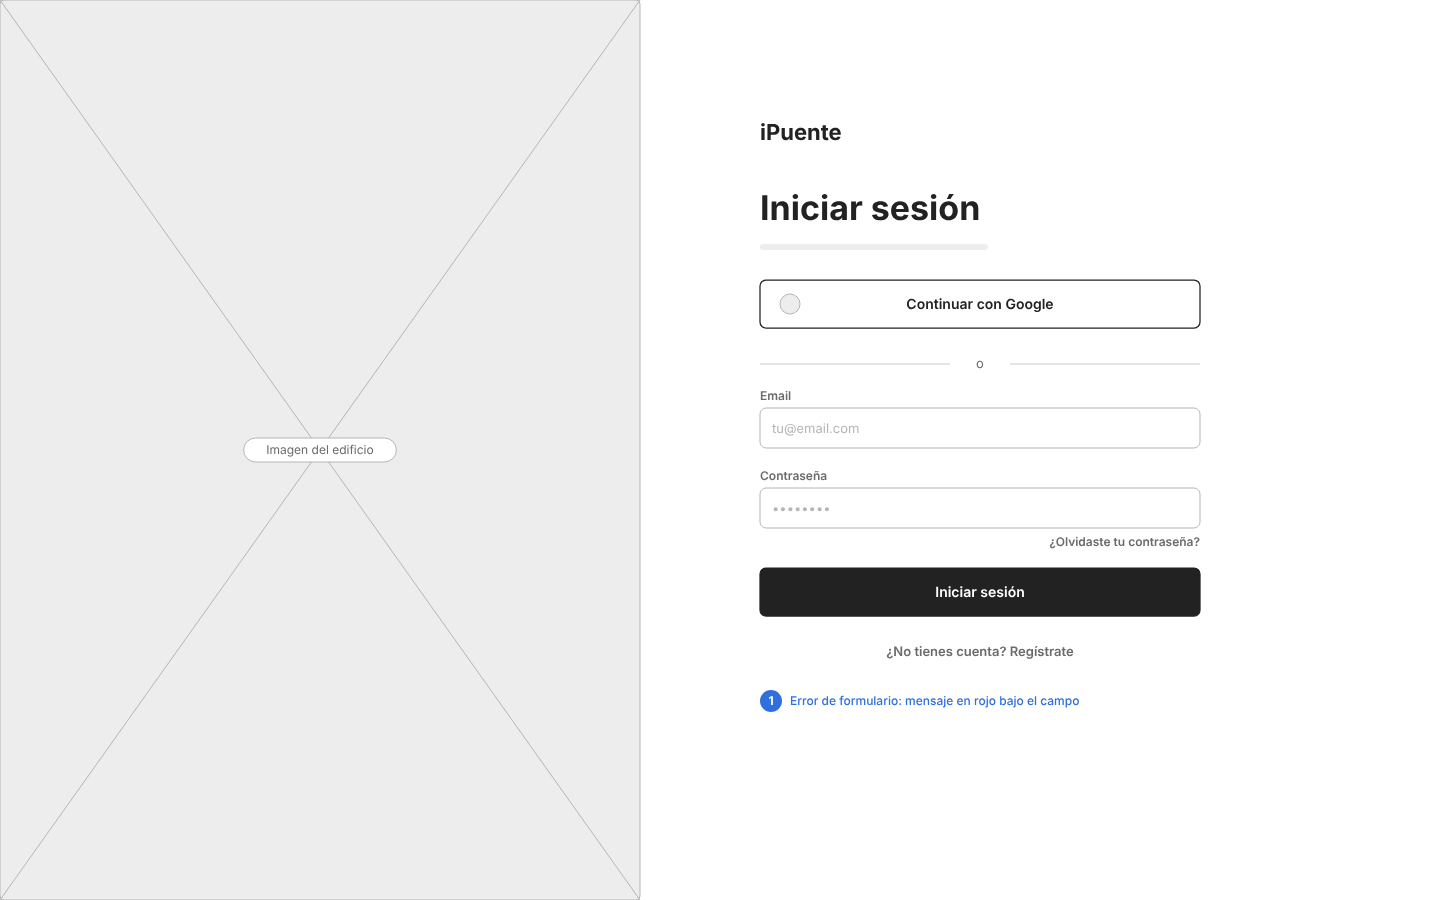
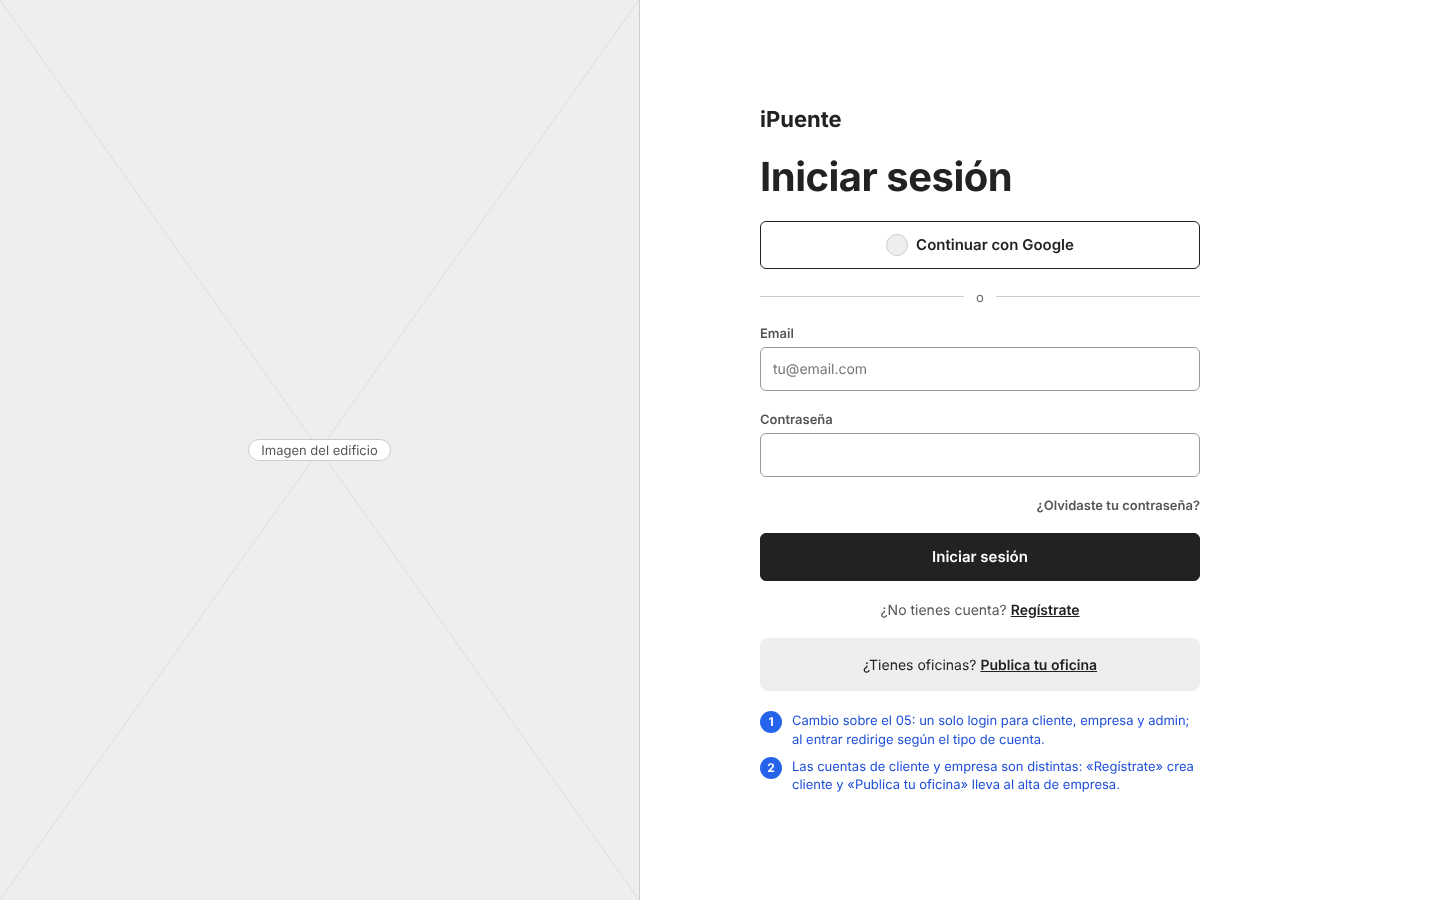
DIS006: añade wireframes nuevos y el plan de componentes del front
- Integra 33 wireframes nuevos en docs/images/wireframes con la numeración existente.
- Sustituye 05-login, 10-empresa-alta y 20-admin-pagos por su versión revisada
  (los originales pasan a _to_delete/wireframes).
- Añade a AGENTS.md los componentes y páginas nuevos de los wireframes.
- Crea docs/plan-front.md con las épicas e issues del front.

diff --git a/AGENTS.md b/AGENTS.md
@@ -62,11 +62,32 @@ Todo el código de React. `config/` conecta con Firebase; `App.jsx` define las U
 | `client/src/components/ui/Input/Input.jsx` + `.module.css` | Campo de formulario con etiqueta, ayuda y mensaje de error. |
 | `client/src/components/ui/Modal/Modal.jsx` + `.module.css` | Ventana modal accesible (cierre con Escape y foco atrapado). |
 | `client/src/components/ui/Spinner/Spinner.jsx` + `.module.css` | Indicador de carga. |
-| `client/src/components/ui/StatusBadge/StatusBadge.jsx` + `.module.css` | Etiqueta de estado: de una sala (libre, ocupada, no reservable), de una reserva (`PENDING_PAYMENT`, `CONFIRMED`…) o de una empresa (verificada o pendiente). |
+| `client/src/components/ui/StatusBadge/StatusBadge.jsx` + `.module.css` | Etiqueta de estado: de una sala (libre, ocupada, no reservable; en el panel de empresa: publicada, sin precio, oculta), de una reserva (`PENDING_PAYMENT`, `CONFIRMED`…), de un pago o de una empresa (verificada, pendiente, rechazada o suspendida). |
+| `client/src/components/ui/Select/Select.jsx` + `.module.css` | Desplegable con etiqueta, ayuda y mensaje de error (buscador, filtros, cambio de rol). |
+| `client/src/components/ui/Textarea/Textarea.jsx` + `.module.css` | Texto largo con etiqueta y error (motivo de rechazo, suspensión, cancelación o bloqueo). |
+| `client/src/components/ui/Checkbox/Checkbox.jsx` + `.module.css` | Casilla con etiqueta (equipamiento, aceptar condiciones). |
+| `client/src/components/ui/Chip/Chip.jsx` + `.module.css` | Píldora pequeña: filtro seleccionable por tipo de sala o etiqueta informativa (`Black Room I · 25 €/h`). |
+| `client/src/components/ui/Avatar/Avatar.jsx` + `.module.css` | Círculo con la foto o las iniciales del usuario. |
+| `client/src/components/ui/Alert/Alert.jsx` + `.module.css` | Mensaje de error, aviso o éxito dentro de una pantalla. |
+| `client/src/components/ui/EmptyState/EmptyState.jsx` + `.module.css` | Estado vacío con título, texto y acciones (sin resultados, sin edificios, sin reservas). |
+| `client/src/components/ui/StatCard/StatCard.jsx` + `.module.css` | Cifra destacada con título para los resúmenes de empresa y admin. |
+| `client/src/components/ui/ConfirmModal/ConfirmModal.jsx` + `.module.css` | Modal de confirmación sobre `Modal`: título, texto, motivo opcional y acción (cancelar reserva, rechazar o suspender empresa, reembolsar, eliminar sala). |
+| `client/src/components/ui/DataTable/DataTable.jsx` + `.module.css` | Tabla de los paneles: columnas, acciones por fila y estado vacío; en móvil pasa a tarjetas. |
+| `client/src/components/ui/FilterBar/FilterBar.jsx` + `.module.css` | Fila de filtros (edificio, planta, estado, fechas) encima de las tablas. |
+| `client/src/components/ui/FileDropzone/FileDropzone.jsx` + `.module.css` | Zona para arrastrar o seleccionar archivos; la usan `PlanUploader` y las fotos de sala. |
+| `client/src/components/ui/CookieBanner/CookieBanner.jsx` + `.module.css` | Aviso de cookies que recuerda la elección del usuario. |
+| `client/src/components/ui/ErrorState/ErrorState.jsx` + `.module.css` | Error del servidor o sin conexión, con botón de reintentar. |
 | `client/src/components/layout/Header/Header.jsx` + `.module.css` | Cabecera: logo, navegación, acceso y menú según el rol. |
+| `client/src/components/layout/UserMenu/UserMenu.jsx` + `.module.css` | Menú desplegable del usuario en escritorio (reservas, panel según rol, cerrar sesión). |
+| `client/src/components/layout/MobileMenu/MobileMenu.jsx` + `.module.css` | Menú de navegación a pantalla completa en móvil. |
 | `client/src/components/layout/Footer/Footer.jsx` + `.module.css` | Pie de página. |
 | `client/src/components/layout/DashboardLayout/DashboardLayout.jsx` + `.module.css` | Plantilla con menú lateral para los paneles de empresa y admin. |
+| `client/src/components/search/SearchBar/SearchBar.jsx` + `.module.css` | Buscador de ciudad, fecha y personas (landing y resultados). |
+| `client/src/components/search/CategoryFilters/CategoryFilters.jsx` + `.module.css` | Filtros por tipo de sala (reuniones, eventos, formación, boxes privados). |
+| `client/src/components/search/BuildingCard/BuildingCard.jsx` + `.module.css` | Tarjeta de edificio en los resultados: foto, dirección, salas libres y precio desde. |
+| `client/src/components/search/SearchMap/SearchMap.jsx` + `.module.css` | Extra: mapa de resultados con un pin por edificio, resaltado al pasar por su tarjeta. |
 | `client/src/components/building/BuildingHero/BuildingHero.jsx` + `.module.css` | Imagen del edificio con una banda clicable por planta (hover ilumina la planta y muestra las salas libres). |
+| `client/src/components/building/FloorSelector/FloorSelector.jsx` + `.module.css` | Lista de plantas del edificio con sus salas libres, para elegir planta. |
 | `client/src/components/building/Building3D/Building3D.jsx` + `.module.css` | Extra: edificio 3D generado a partir de las plantas guardadas (Three.js). |
 | `client/src/components/building/NearbyMap/NearbyMap.jsx` + `.module.css` | Sección «Qué hay cerca»: mapa ilustrado con puntos de interés (estación de tren, metro, parking…) y tiempos. |
 | `client/src/components/floor-plan/FloorPlan/FloorPlan.jsx` + `.module.css` | Plano SVG de una planta para clientes, generado desde el `mapData` de la planta y coloreado por el estado de cada sala. |
@@ -78,31 +99,55 @@ Todo el código de React. `config/` conecta con Firebase; `App.jsx` define las U
 | `client/src/components/map-editor/RoomPropertiesPanel/RoomPropertiesPanel.jsx` + `.module.css` | Panel lateral con los datos de la sala seleccionada (código, nombre, tipo). |
 | `client/src/components/map-editor/PlanUploader/PlanUploader.jsx` + `.module.css` | Subida de la imagen del plano (arrastrar o seleccionar). |
 | `client/src/components/map-editor/DetectionOverlay/DetectionOverlay.jsx` + `.module.css` | Estado «Analizando tu plano…» con animación de escaneo mientras responde la IA. |
+| `client/src/components/map-editor/EditorStartChoice/EditorStartChoice.jsx` + `.module.css` | Elección inicial del editor: detectar salas con IA o dibujarlas a mano. |
+| `client/src/components/map-editor/DetectionError/DetectionError.jsx` + `.module.css` | Aviso de fallo en la detección con IA, con opción de reintentar o dibujar a mano. |
+| `client/src/components/map-editor/UnsavedChangesModal/UnsavedChangesModal.jsx` + `.module.css` | Aviso al salir del editor con cambios sin guardar. |
+| `client/src/components/map-editor/PublishValidationModal/PublishValidationModal.jsx` + `.module.css` | Comprobaciones antes de publicar una planta (salas sin nombre, sin precio…). |
+| `client/src/components/company/BuildingFormModal/BuildingFormModal.jsx` + `.module.css` | Formulario para crear o editar un edificio. |
+| `client/src/components/company/BuildingMenu/BuildingMenu.jsx` + `.module.css` | Menú de acciones de un edificio: editar, añadir planta y eliminar. |
+| `client/src/components/company/FloorList/FloorList.jsx` + `.module.css` | Plantas de un edificio con su estado y acceso al editor de mapas. |
+| `client/src/components/company/RoomEditPanel/RoomEditPanel.jsx` + `.module.css` | Panel para editar los datos comerciales de una sala: precio, capacidad, equipamiento y horario. |
+| `client/src/components/company/RoomPhotosManager/RoomPhotosManager.jsx` + `.module.css` | Subida, orden y portada de las fotos de una sala. |
+| `client/src/components/company/BlockHoursModal/BlockHoursModal.jsx` + `.module.css` | Modal para bloquear horas de una sala (fecha, franja y motivo). |
+| `client/src/components/admin/RoleSelect/RoleSelect.jsx` + `.module.css` | Selector para cambiar el rol de un usuario. |
 | `client/src/components/room/RoomCard/RoomCard.jsx` + `.module.css` | Tarjeta resumen de una sala (foto, nombre, capacidad, precio). |
 | `client/src/components/room/RoomSidePanel/RoomSidePanel.jsx` + `.module.css` | Panel lateral que se abre al pulsar una sala del plano. |
+| `client/src/components/room/RoomGallery/RoomGallery.jsx` + `.module.css` | Galería de fotos de la sala. |
+| `client/src/components/room/AmenitiesList/AmenitiesList.jsx` + `.module.css` | Equipamiento de la sala con icono y texto. |
 | `client/src/components/room/AvailabilityCalendar/AvailabilityCalendar.jsx` + `.module.css` | Huecos libres de una sala por día. |
 | `client/src/components/booking/BookingForm/BookingForm.jsx` + `.module.css` | Formulario de reserva: fecha y franja horaria (`startDate` y `endDate`). |
 | `client/src/components/booking/BookingSummary/BookingSummary.jsx` + `.module.css` | Resumen de la reserva con el precio que devuelve la API. |
+| `client/src/components/booking/BookingCard/BookingCard.jsx` + `.module.css` | Fila de una reserva en «Mis reservas»: sala, fecha, importe y estado. |
+| `client/src/components/booking/BookingDetail/BookingDetail.jsx` + `.module.css` | Detalle de una reserva, común a cliente, empresa y admin; cada rol ve sus acciones. |
 | `client/src/components/layout/Layout/Layout.jsx` + `.module.css` | Plantilla común de las páginas públicas: cabecera, contenido (`<Outlet />`) y pie. |
 | `client/src/pages/Landing/Landing.jsx` + `.module.css` | Home: hero con el edificio por plantas, buscador, salas destacadas, cómo funciona y llamada a empresas. |
+| `client/src/pages/Search/Search.jsx` + `.module.css` | Resultados de búsqueda: edificios con salas libres según ciudad, fecha y personas, con filtros y estado sin resultados. |
 | `client/src/pages/Building/Building.jsx` + `.module.css` | Página de un edificio: plantas, salas libres y «Qué hay cerca». |
 | `client/src/pages/Floor/Floor.jsx` + `.module.css` | Página de una planta: plano, selector de fecha y panel de sala. |
 | `client/src/pages/Room/Room.jsx` + `.module.css` | Ficha de sala con galería, equipamiento, disponibilidad y reserva. |
 | `client/src/pages/Login/Login.jsx` + `.module.css` | Inicio de sesión con email o Google. |
 | `client/src/pages/Register/Register.jsx` + `.module.css` | Registro de cliente. |
+| `client/src/pages/ForgotPassword/ForgotPassword.jsx` + `.module.css` | Recuperar contraseña: pide el email y envía el enlace. |
+| `client/src/pages/ResetPassword/ResetPassword.jsx` + `.module.css` | Recuperar contraseña: formulario de nueva contraseña desde el enlace. |
 | `client/src/pages/MyBookings/MyBookings.jsx` + `.module.css` | Reservas del cliente: próximas y pasadas, con cancelación. |
-| `client/src/pages/PaymentResult/PaymentResult.jsx` + `.module.css` | Vuelta desde Stripe: reserva confirmada o pago cancelado. |
+| `client/src/pages/BookingDetailPage/BookingDetailPage.jsx` + `.module.css` | Detalle de una reserva del cliente, con cancelación. |
+| `client/src/pages/PaymentResult/PaymentResult.jsx` + `.module.css` | Vuelta desde Stripe: reserva confirmada, pago cancelado o reserva expirada. |
 | `client/src/pages/NotFound/NotFound.jsx` + `.module.css` | Página 404. |
-| `client/src/pages/company/CompanyDashboard/CompanyDashboard.jsx` + `.module.css` | Resumen del panel de empresa. |
+| `client/src/pages/company/CompanyDashboard/CompanyDashboard.jsx` + `.module.css` | Resumen del panel de empresa, con estado vacío en el primer acceso (sin edificios). |
 | `client/src/pages/company/CompanyRegister/CompanyRegister.jsx` + `.module.css` | Solicitud de alta como empresa (queda pendiente de aprobación). |
+| `client/src/pages/company/CompanyRequestStatus/CompanyRequestStatus.jsx` + `.module.css` | Estado de la solicitud de alta: en revisión o rechazada con su motivo. |
 | `client/src/pages/company/CompanyBuildings/CompanyBuildings.jsx` + `.module.css` | Edificios y plantas de la empresa. |
 | `client/src/pages/company/MapEditorPage/MapEditorPage.jsx` + `.module.css` | Página del editor de mapas de una planta: subir plano, detectar, corregir, guardar y publicar. |
-| `client/src/pages/company/CompanyRooms/CompanyRooms.jsx` + `.module.css` | Datos comerciales de las salas: precio, capacidad, equipamiento y fotos. |
+| `client/src/pages/company/CompanyRooms/CompanyRooms.jsx` + `.module.css` | Datos comerciales de las salas: precio, capacidad, equipamiento y fotos; estados y ocultar o mostrar sala. |
 | `client/src/pages/company/CompanyBookings/CompanyBookings.jsx` + `.module.css` | Reservas de las salas de la empresa y bloqueo de horas. |
+| `client/src/pages/company/CompanyBookingDetail/CompanyBookingDetail.jsx` + `.module.css` | Detalle de una reserva de la empresa, con cancelación. |
+| `client/src/pages/company/CompanySettings/CompanySettings.jsx` + `.module.css` | Ajustes de la empresa: cobros con Stripe Connect. |
 | `client/src/pages/admin/AdminDashboard/AdminDashboard.jsx` + `.module.css` | Resumen del panel de admin. |
-| `client/src/pages/admin/AdminCompanies/AdminCompanies.jsx` + `.module.css` | Aprobar o suspender empresas. |
+| `client/src/pages/admin/AdminCompanies/AdminCompanies.jsx` + `.module.css` | Aprobar, rechazar o suspender empresas. |
+| `client/src/pages/admin/AdminCompanyDetail/AdminCompanyDetail.jsx` + `.module.css` | Detalle de una empresa: datos, edificios y acciones de aprobar, rechazar o suspender. |
 | `client/src/pages/admin/AdminUsers/AdminUsers.jsx` + `.module.css` | Usuarios y cambio de rol. |
 | `client/src/pages/admin/AdminBookings/AdminBookings.jsx` + `.module.css` | Todas las reservas. |
+| `client/src/pages/admin/AdminBookingDetail/AdminBookingDetail.jsx` + `.module.css` | Detalle de cualquier reserva. |
 | `client/src/pages/admin/AdminPayments/AdminPayments.jsx` + `.module.css` | Pagos y reembolsos. |
 | `client/src/utils/formatPrice.js` | Formatea importes en euros (`25` → `25,00 €`). |
 | `client/src/utils/dates.js` | Utilidades de fechas: formato `AAAA-MM-DD`, horas y rangos para el calendario. |

diff --git a/docs/plan-front.md b/docs/plan-front.md
@@ -1,0 +1,168 @@
+# Plan de épicas e issues del front
+
+Plan para construir todos los componentes y páginas del front (`client/src/`) a partir de los wireframes de `docs/images/wireframes/`. El equipo de front somos dos personas.
+
+- **Común (`UI`):** la coge cualquiera de los dos.
+- **Cliente (`CLI`):** persona A.
+- **Empresa (`EMP`):** persona B.
+- **Admin (`ADM`):** persona A, después de cliente.
+
+Tamaños orientativos: **S** ≈ medio día · **M** ≈ 1–2 días · **L** ≈ 3 días o más.
+
+Todavía no hay endpoints en la API: todas las páginas se maquetan con **datos de prueba** (UI015) y se conectarán a la API en una épica futura (`INT`).
+
+## Épica 1 · `UI` Base común (la coge cualquiera de los dos)
+
+Bloquea al resto, así que va primero. Se reparte por orden de llegada: cada uno se asigna la siguiente libre. UI001, UI012 y UI015 son las primeras porque desbloquean todas las páginas.
+
+| Issue | Contenido | Tam. | Depende de |
+| --- | --- | --- | --- |
+| UI001 · Tokens de interfaz para los componentes | Espaciado, colores de interfaz, campos, elevación, capas y transiciones en `style.css` y `fundamentos.md` | S | Decidir color de paneles y texto pequeño |
+| UI002 · Botón y spinner | `Button` (variantes, `loading`, `disabled`), `Spinner` | S | UI001 |
+| UI003 · Campos de formulario | `Input`, `Select`, `Textarea`, `Checkbox` | M | UI001 |
+| UI004 · Etiquetas | `Chip`, `Avatar`, `StatusBadge` (todos los estados) | S | UI001 |
+| UI005 · Bloques de estado | `Alert`, `EmptyState`, `StatCard`, `ErrorState` | M | UI002 |
+| UI006 · Modales | `Modal` (Escape, foco atrapado) y `ConfirmModal` (motivo opcional) | M | UI002, UI003 |
+| UI007 · Tablas de panel | `DataTable` (acciones, vacío, tarjetas en móvil) y `FilterBar` | L | UI003, UI005 |
+| UI008 · Subida de archivos | `FileDropzone` | S | UI002 |
+| UI009 · Cabecera | `Header`, `UserMenu`, `MobileMenu` según el rol | M | UI004 |
+| UI010 · Plantilla pública | `Layout`, `Footer`, `CookieBanner` | S | UI009 |
+| UI011 · Plantilla de paneles | `DashboardLayout` con menú de empresa y de admin | M | UI009 |
+| UI012 · Rutas | Todas las rutas nuevas en `App.jsx`, con `PrivateRoute` y `RoleRoute` | S | — |
+| UI013 · Plano de planta | `FloorPlan`, `RoomShape`, `Legend` a partir de `demo-floor.json` | L | UI001 |
+| UI014 · Detalle de reserva | `BookingDetail` con acciones según el rol | M | UI004, UI006 |
+| UI015 · Datos de prueba | Datos de prueba servidos por los services (ver abajo) | M | — |
+
+### UI001 · Tokens de interfaz para los componentes
+
+La paleta, la tipografía, los radios y el reset ya están hechos (DIS001 en `docs/diseno/fundamentos.md` y SET006 en `client/styles/style.css`). Faltan los tokens que necesitan los componentes:
+
+| Falta | Por qué lo necesitan los componentes |
+| --- | --- |
+| Escala de espaciado (`--espacio-1` … `--espacio-8`) | Hoy solo existen los alias provisionales `--space-sm` y `--space-md` |
+| Colores de interfaz: error, aviso, éxito, info | `Alert`, errores de `Input` y `StatusBadge`. `--ocupada` es un estado de sala, no un error |
+| Campos de formulario: fondo, borde, borde con foco, placeholder, desactivado | `Input`, `Select`, `Textarea`, `Checkbox` |
+| Elevación: sombras y fondo oscuro detrás del modal | `Modal`, `UserMenu`, `CookieBanner` |
+| Capas (`--z-cabecera`, `--z-menu`, `--z-modal`, `--z-aviso`) | Que el modal, el menú móvil y el banner no se tapen entre sí |
+| Duración de transiciones | Menús, modales, hover |
+| Texto pequeño (14 px) | Chips, cabeceras de tabla y etiquetas (decisión de diseño: `fundamentos.md` lo descartó) |
+| Breakpoints | Se documentan como convención (p. ej. 640 / 1024 px): una variable CSS no funciona dentro de `@media` |
+
+**Entrega:** una sola PR.
+
+1. Añadir a `fundamentos.md` los tokens nuevos con su comprobación de contraste WCAG (como en la sección 2.3) y actualizar la sección 4.
+2. Añadir los tokens a `:root` en `style.css` y sustituir los alias provisionales por la escala nueva, actualizando `DashboardLayout` y `Footer`.
+
+**Hecha cuando:**
+
+- Todos los tokens de la tabla están en `style.css` y documentados en `fundamentos.md`.
+- Los colores nuevos cumplen AA sobre el fondo en el que se usan.
+- No quedan alias provisionales ni ningún componente roto.
+- `npm run lint` y `npm run build` pasan sin errores.
+
+### UI015 · Datos de prueba
+
+Sigue la regla de `AGENTS.md`: ningún componente obtiene datos directamente, siempre a través de `src/services/`.
+
+- **Datos:** carpeta `client/src/mocks/` con JSON de edificios, plantas (a partir de `demo-floor.json`), salas, reservas, empresas, usuarios y pagos.
+- **Services:** cada service de `src/services/` devuelve esos datos con un pequeño retardo simulado, para poder ver los estados de carga.
+- **Interruptor:** una variable `VITE_USE_MOCKS` en `.env.example` activa los datos de prueba. Cuando exista la API, se cambia el interior de cada service y las páginas no se tocan.
+- **Formato de los datos:** sigue los campos del [Diseño de datos del README](../README.md#diseño-de-datos), para que luego la API encaje.
+
+## Épica 2 · `CLI` Cliente (persona A)
+
+| Issue | Contenido | Tam. | Depende de |
+| --- | --- | --- | --- |
+| CLI001 · Login y registro | `Login` revisado, `Register`, Google | M | UI003 |
+| CLI002 · Recuperar contraseña | `ForgotPassword`, `ResetPassword` | S | UI003 |
+| CLI003 · Landing | Hero, `SearchBar`, salas destacadas, cómo funciona, llamada a empresas | L | UI010, UI015 |
+| CLI004 · Resultados de búsqueda | `Search`, `CategoryFilters`, `BuildingCard`, sin resultados (escritorio y móvil) | M | CLI003 |
+| CLI005 · Página de edificio | `Building`, `BuildingHero`, `FloorSelector` | M | UI010, UI015 |
+| CLI006 · Página de planta | `Floor`, selector de fecha, `RoomSidePanel` | M | UI013 |
+| CLI007 · Ficha de sala | `Room`, `RoomGallery`, `AmenitiesList`, `AvailabilityCalendar` | L | UI004, UI015 |
+| CLI008 · Reservar | `BookingForm`, `BookingSummary`; el pago se simula hasta tener Stripe | M | CLI007 |
+| CLI009 · Resultado del pago | `PaymentResult` (confirmada, cancelada, expirada) y versión móvil | S | CLI008 |
+| CLI010 · Mis reservas | `MyBookings`, `BookingCard`, próximas y pasadas | M | UI005, UI015 |
+| CLI011 · Detalle y cancelación | `BookingDetailPage` con `ConfirmModal` | S | UI014 |
+| CLI012 · Páginas de error | `NotFound` y error del servidor o sin conexión | S | UI005 |
+| CLI013 · _Extra_ Qué hay cerca | `NearbyMap` | M | CLI005 |
+| CLI014 · _Extra_ Mapa de resultados | `SearchMap` | M | CLI004 |
+
+## Épica 3 · `EMP` Empresa (persona B)
+
+| Issue | Contenido | Tam. | Depende de |
+| --- | --- | --- | --- |
+| EMP001 · Alta de empresa | `CompanyRegister` revisado y `CompanyRequestStatus` (en revisión o rechazada) | M | UI003 |
+| EMP002 · Resumen | `CompanyDashboard` con `StatCard` y estado vacío del primer acceso | S | UI011, UI015 |
+| EMP003 · Edificios y plantas | `CompanyBuildings`, `FloorList`, `BuildingMenu`, `BuildingFormModal` | L | UI006, UI011 |
+| EMP004 · Editor I: lienzo | `MapEditor`, `RoomHandle`, `EditorToolbar`, `useMapEditor` (dibujar, mover, redimensionar, deshacer) | L | UI002 |
+| EMP005 · Editor II: plano e IA | `PlanUploader`, `EditorStartChoice`, `DetectionOverlay`, `DetectionError`; la detección se simula con un borrador de prueba | M | EMP004, UI008 |
+| EMP006 · Editor III: datos de sala | `RoomPropertiesPanel`, eliminar sala, `UnsavedChangesModal` | M | EMP004 |
+| EMP007 · Editor IV: guardar y publicar | `PublishValidationModal`, guardar borrador y publicar | M | EMP006 |
+| EMP008 · Salas | `CompanyRooms`, `RoomEditPanel`, ocultar y mostrar | M | UI007 |
+| EMP009 · Fotos de sala | `RoomPhotosManager` (subir, ordenar, portada) | M | UI008, EMP008 |
+| EMP010 · Reservas y bloqueos | `CompanyBookings`, `BlockHoursModal` | M | UI007 |
+| EMP011 · Detalle de reserva | `CompanyBookingDetail` con cancelación | S | UI014 |
+| EMP012 · Ajustes de cobros | `CompanySettings` (solo maqueta de Stripe Connect) | S | UI011 |
+| EMP013 · _Extra_ Edificio 3D | `Building3D` | L | EMP007 |
+
+## Épica 4 · `ADM` Admin (persona A, después de cliente)
+
+Es la épica más ligera porque casi todo reutiliza piezas comunes (`DataTable`, `FilterBar`, `ConfirmModal`, `BookingDetail`, `StatCard`).
+
+| Issue | Contenido | Tam. | Depende de |
+| --- | --- | --- | --- |
+| ADM001 · Resumen | `AdminDashboard` con `StatCard` (empresas pendientes, reservas, ingresos) | S | UI011, UI005 |
+| ADM002 · Empresas | `AdminCompanies` con filtro por estado y botones de aprobar, rechazar y suspender | M | UI007, UI006 |
+| ADM003 · Detalle de empresa | `AdminCompanyDetail` con los modales de rechazar y suspender (`ConfirmModal` con motivo) | M | ADM002 |
+| ADM004 · Usuarios | `AdminUsers`, `RoleSelect` con confirmación del cambio de rol | M | UI007 |
+| ADM005 · Reservas | `AdminBookings` y `AdminBookingDetail` | M | UI007, UI014 |
+| ADM006 · Pagos | `AdminPayments` revisado y modal de reembolso | M | UI007, UI006 |
+
+## Reparto y orden
+
+| Fase | Persona A | Persona B |
+| --- | --- | --- |
+| 1 · Base | Se reparten UI001–UI015 por orden de llegada. Primero UI001, UI012 y UI015 | |
+| 2 | CLI001 → CLI012 | EMP001 → EMP012 (el editor, EMP004, empieza en cuanto estén UI001 y UI002) |
+| 3 | ADM001 → ADM006 | Lo que quede de empresa y ayuda en admin si acaba antes |
+| 4 · Extras | CLI013, CLI014 | EMP013 |
+
+Carga estimada: A ≈ 26 días (cliente + admin) y B ≈ 22 días (empresa). La diferencia compensa el riesgo del editor de mapas; si B acaba antes, coge issues de `ADM`.
+
+**Reglas para no pisarse:**
+
+- Cada componente común tiene un responsable, y hay que fijar sus props antes de usarlo, para poder usarlo sin esperar a que esté terminado.
+- La fase 1 se fusiona antes de empezar las páginas que dependen de ella. Mientras tanto se puede maquetar con los datos de prueba.
+- `App.jsx`, `constants.js` y `style.css` los tocan los dos: cambios en PRs pequeñas y avisando.
+
+## Épica futura · `INT` Integración con la API
+
+Cuando el back tenga endpoints, una issue por service para cambiar los datos de prueba por llamadas reales con `apiClient`. Hay que hacerlo también con Firebase Auth en el login, Stripe en el pago e IA en el editor. Como las páginas solo hablan con los services, no deberían cambiar.
+
+Endpoints que el front va a necesitar y que hay que acordar con back:
+
+- Búsqueda de edificios por ciudad, fecha y personas.
+- Detalle de reserva (cliente, empresa y admin) y detalle de empresa (admin).
+- Ocultar y mostrar sala.
+- Stripe Connect para los cobros de las empresas.
+
+## Criterios comunes de «Hecha cuando»
+
+Además de los suyos propios, cada issue cumple:
+
+- Funciona en móvil y escritorio.
+- Se puede usar con teclado.
+- Tiene estados de carga, vacío y error.
+- Sigue las convenciones de `AGENTS.md` (carpeta por componente, CSS Modules, variables de `:root`, textos en español).
+- `npm run lint` y `npm run build` pasan sin errores.
+
+## Pendiente de decidir
+
+1. **Color de los paneles:** oscuro, como Bosque, o claro, como los wireframes. Bloquea UI001.
+2. **Texto pequeño:** si se recupera el de 14 px para chips y tablas. Bloquea UI001.
+3. **Pantallas sin wireframe**, fuera del plan hasta que se decida:
+   - «Para empresas», «Cómo funciona» y «Contacto» del menú (¿secciones de la landing o páginas?).
+   - Páginas legales que enlaza el banner de cookies.
+   - Perfil de usuario.
+   - Favoritos.
